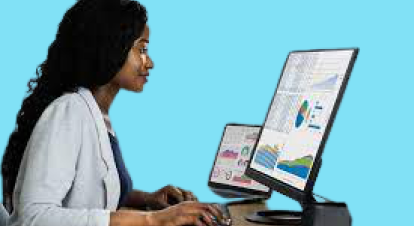
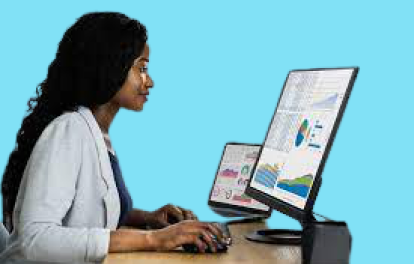
Business support page and Error404 buttons responsiveness fixed. Contact page hero images editted

diff --git a/src/pages/BusinessSupportAcademy.js b/src/pages/BusinessSupportAcademy.js
@@ -1,66 +1,80 @@
-import React from "react";
-import { CourseCards } from "../components/Card";
-import { OurInstructors } from "../components/Ourinstructors";
-import businessSupport from "../data/bus_support_details/business_support.json";
-import { CoursepageHero } from "../components/Hero";
-import { InstructorCards } from "../components/Card";
+import React from 'react';
+import { CourseCards } from '../components/Card';
+import { OurInstructors } from '../components/Ourinstructors';
+import businessSupport from '../data/bus_support_details/business_support.json';
+import { CoursepageHero } from '../components/Hero';
+import { InstructorCards } from '../components/Card';
 
 const BusinessSupportAcademy = () => {
-	return (
-		<div>
-			<BusinessHero />
-			<Business />
-			<OurInstructors />
-			<BusinessInstructors />
-		</div>
-	);
+  return (
+    <>
+      <div className="d-none d-md-block">
+        <BusinessHero />
+        <div className="webDev m-5 p-5">
+          <Business />
+        </div>
+        <OurInstructors />
+        <BusinessInstructors />
+      </div>
+
+      <div className="d-block d-md-none">
+        <BusinessHero />
+        <div className="webDev p-4 mb-5">
+          <Business />
+        </div>
+        <OurInstructors />
+        <BusinessInstructors />
+      </div>
+    </>
+  );
 };
 
 let BusinessHero = () => {
-	return (
-		<div>
-			{businessSupport.businessheroinfo.map((singlebushero) => {
-				return (
-					<div key={singlebushero.id}>
-						<CoursepageHero {...singlebushero}></CoursepageHero>
-					</div>
-				);
-			})}
-		</div>
-	);
+  return (
+    <div>
+      {businessSupport.businessheroinfo.map((singlebushero) => {
+        return (
+          <div key={singlebushero.id}>
+            <CoursepageHero {...singlebushero}></CoursepageHero>
+          </div>
+        );
+      })}
+    </div>
+  );
 };
 
 let Business = () => {
-	return (
-		<div className="webDev m-5 p-5">
-			<div className="row p-1 d-flex justify-content-around">
-				{businessSupport.business.map((singlebus) => {
-					return (
-						<div
-							className="col-lg-4 col-md-6 d-flex align-items-stretch py-4"
-							key={singlebus.id}>
-							<CourseCards {...singlebus}></CourseCards>
-						</div>
-					);
-				})}
-			</div>
-		</div>
-	);
+  return (
+    <div>
+      <div className="row p-1 d-flex justify-content-around">
+        {businessSupport.business.map((singlebus) => {
+          return (
+            <div
+              className="col-lg-4 col-md-6 d-flex align-items-stretch py-4"
+              key={singlebus.id}
+            >
+              <CourseCards {...singlebus}></CourseCards>
+            </div>
+          );
+        })}
+      </div>
+    </div>
+  );
 };
 
 let BusinessInstructors = () => {
-	return (
-		<div className="webDev m-5 p-5">
-			<div className="row p-1 d-flex justify-content-around">
-				{businessSupport.instructors.map((singleInstr) => {
-					return (
-						<div className="col-md-4 col-sm-6" key={singleInstr.id}>
-							<InstructorCards {...singleInstr}></InstructorCards>
-						</div>
-					);
-				})}
-			</div>
-		</div>
-	);
+  return (
+    <div className="webDev m-5 p-5">
+      <div className="row p-1 d-flex justify-content-around">
+        {businessSupport.instructors.map((singleInstr) => {
+          return (
+            <div className="col-md-4 col-sm-6" key={singleInstr.id}>
+              <InstructorCards {...singleInstr}></InstructorCards>
+            </div>
+          );
+        })}
+      </div>
+    </div>
+  );
 };
 export default BusinessSupportAcademy;

diff --git a/src/components/Buttons.js b/src/components/Buttons.js
@@ -1,74 +1,74 @@
-import React from "react";
+import React from 'react';
 
 export const SignInButton = () => {
-	return (
-		<a href="http://app.innkeeper.work" rel="noreferrer">
-			<button type="button" className="btn signinbtnapply">
-				Sign In
-			</button>
-		</a>
-	);
+  return (
+    <a href="http://app.innkeeper.work" rel="noreferrer">
+      <button type="button" className="btn signinbtnapply">
+        Sign In
+      </button>
+    </a>
+  );
 };
 export const GetStartedButton = () => {
-	return (
-		<button type="button" className="btn callToAction">
-			Get Started
-		</button>
-	);
+  return (
+    <button type="button" className="btn callToAction">
+      Get Started
+    </button>
+  );
 };
 export const LearnMoreButton = () => {
-	return (
-		<button type="button" className="btn callToAction">
-			Learn More
-		</button>
-	);
+  return (
+    <button type="button" className="btn callToAction">
+      Learn More
+    </button>
+  );
 };
 export const BeginCoursesButton = () => {
-	return (
-		<button type="button" className="btn callToAction">
-			Begin Courses
-		</button>
-	);
+  return (
+    <button type="button" className="btn callToAction">
+      Begin Courses
+    </button>
+  );
 };
 export const ForwardButton = () => {
-	return (
-		<button type="button" className="btn callToAction">
-			Forward
-		</button>
-	);
+  return (
+    <button type="button" className="btn callToAction">
+      Forward
+    </button>
+  );
 };
 export const ApplyNowButton = () => {
-	return (
-		<button type="button" className="btn signinbtnapply">
-			Apply Now
-		</button>
-	);
+  return (
+    <button type="button" className="btn signinbtnapply">
+      Apply Now
+    </button>
+  );
 };
 export const SubscribeButton = () => {
-	return (
-		<button type="button" className="btn callToAction">
-			Subscribe
-		</button>
-	);
+  return (
+    <button type="button" className="btn callToAction">
+      Subscribe
+    </button>
+  );
 };
 export const SendButton = () => {
-	return (
-		<button type="button" className="btn signinbtnapply">
-			Send
-		</button>
-	);
+  return (
+    <button type="button" className="btn signinbtnapply">
+      Send
+    </button>
+  );
 };
 export const Home = () => {
-	return (
-		<button type="button" className="btn callToAction px-5">
-			<strong>Home</strong>
-		</button>
-	);
+  return (
+    <button type="button" className="btn callToAction px-5 me-2">
+      <strong>Home</strong>
+    </button>
+  );
 };
 export const ContactUs = () => {
-	return (
-		<button type="button" className="btn callToAction px-4">
-			<strong>Contact Us</strong>
-		</button>
-	);
+  return (
+    <button type="button" className="btn callToAction px-4 ms-2">
+      <strong>Contact Us</strong>
+    </button>
+  );
 };

diff --git a/src/pages/Contact.js b/src/pages/Contact.js
@@ -1,6 +1,6 @@
 import React, { useState } from 'react';
 import { SendButton } from '../components/Buttons';
-import contact_image from '../images/contact_image.png';
+import contact_image1 from '../images/contact_image1.png';
 import contact_image2 from '../images/contact_image2.png';
 import Navbar from '../components/Navbar';
 
@@ -33,24 +33,24 @@ const Contact = () => {
 
   return (
     <>
-      <div className="heroBg mx-auto d-none d-md-block">
+      <div className="heroBg mx-auto d-none d-md-block mb-5">
         <Navbar />
       </div>
 
-      <div className="col col-md-5 col-sm-12 heroBg d-block mx-lg-auto d-xs-block d-md-none col-12 mb-5">
+      <div className="col-md-5 col-sm-12 heroBg d-block mx-lg-auto d-xs-block d-md-none col-12 mb-4">
         <Navbar />
         <img
           src={contact_image2}
           alt="Innkeeper.work contact us"
-          className="d-block mx-lg-auto d-xs-block d-md-none col-12 mb-5"
+          className="d-block mx-lg-auto d-xs-block d-md-none col-12"
         />
       </div>
 
-      <div className="row mx-5">
-        <h2 className="d-flex justify-content-center herotextColored mt-4">
+      <div className="row mx-4">
+        <h2 className="d-flex justify-content-center herotextColored ">
           <strong> Contact Us</strong>
         </h2>
-        <div className="col-md-7 col-sm-12 g-5 mb-5">
+        <div className="col-md-7 col-sm-12 g-2 mb-5">
           <li className="mb-4">
             Do you have other questions? Don't worry, there aren't any dumb
             questions. Just fill out the form below and we'll get back to you as
@@ -123,9 +123,9 @@ const Contact = () => {
           </form>
         </div>
 
-        <div className="col col-md-5 col-sm-12">
+        <div className="col-md-5 col-sm-12">
           <img
-            src={contact_image}
+            src={contact_image1}
             alt="Innkeeper.work contact us"
             className="d-block mx-lg-auto img-fluid d-sm-none d-md-block"
           />
